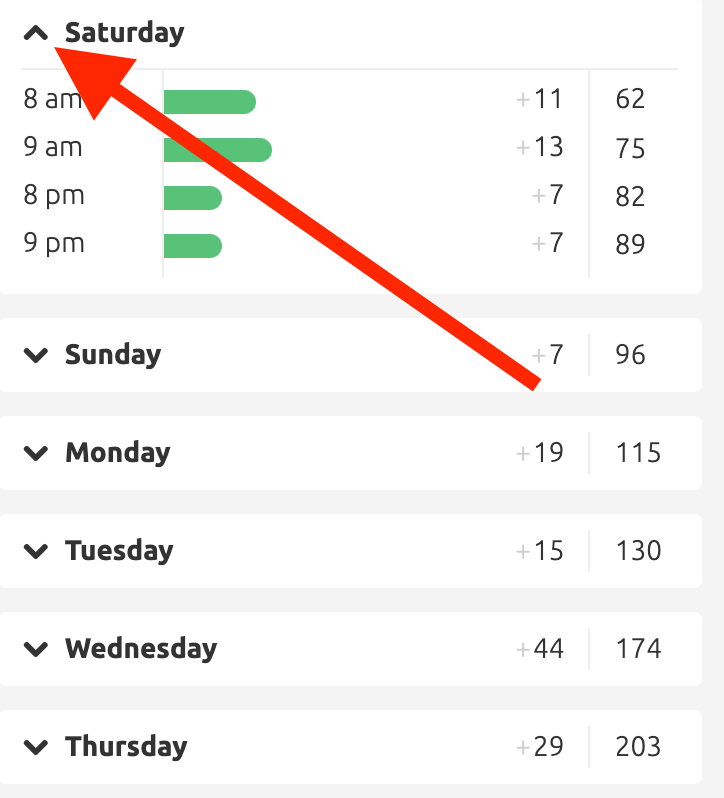
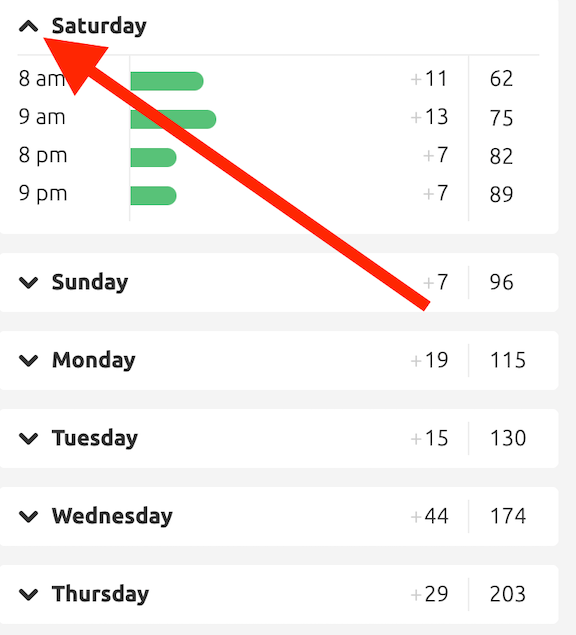
April Updates Continued
- Removed WK tag from Review Forecast page
- Edited typos
- Made Review Forecast images smaller

diff --git a/_posts/2020-04-17-review-forecast.md b/_posts/2020-04-17-review-forecast.md
@@ -3,7 +3,6 @@ date: 2020-04-17 10:00
 title: Review Forecast
 categories:
   - getting-started
-  - wanikani
 description:
 set: onboarding
 set-order: 7
@@ -16,7 +15,7 @@ The Review Forecast is located on the righthand side of the dashboard. It's the 
 
 ![WaniKani review forecast](/images/review-forecast.png)
 
-Looking at this, you can see that the number of reviews you have *today* are shown first. Hovering your mouse over the different numbers shows more information. The forecast is read horizontally and divided into hourly categories. The number to the right of the "+" sign tells you how many new reviews you will get on the hour. The green bar also reflects this number. The number to on the far right side shows you how many reviews you will have in total. You can see that it increases by increments of each new number of hourly reviews.
+Looking at this, you can see that the number of reviews you have *today* are shown first. Hovering your mouse over the different numbers shows more information. The forecast is read horizontally and divided into hourly categories. The number to the right of the "+" sign tells you how many new reviews you will get on the hour. The green bar also reflects this number. The number on the far right side shows you how many reviews you will have in total. You can see that it increases by increments of each new number of hourly reviews.
 
 If you'd like to see your reviews that are coming up in the next few days, click the drop down triangle in the upper lefthand corner.
 

diff --git a/_posts/2018-10-31-first-lessons.md b/_posts/2018-10-31-first-lessons.md
@@ -9,7 +9,7 @@ set-order: 2
 type: Document
 ---
 
-Now that you have a basic understanding of [how WaniKani works](/getting-started/how-wanikani-works/), it's time to learn something. To begin, hit the pink "Lessons" button that's located below the "WaniKani" title on the left side of your screen. The number on the lower righthand corner shows you how many lessons you currently have.
+Now that you have a basic understanding of [how WaniKani works](/getting-started/how-wanikani-works/), it's time to learn something. To begin, hit the pink "Lessons" button that's located below the "WaniKani" logo on the left side of your screen. The number on the lower righthand corner shows you how many lessons you currently have.
 
 ![WaniKani lessons button](/images/lessons-button.gif)
 
